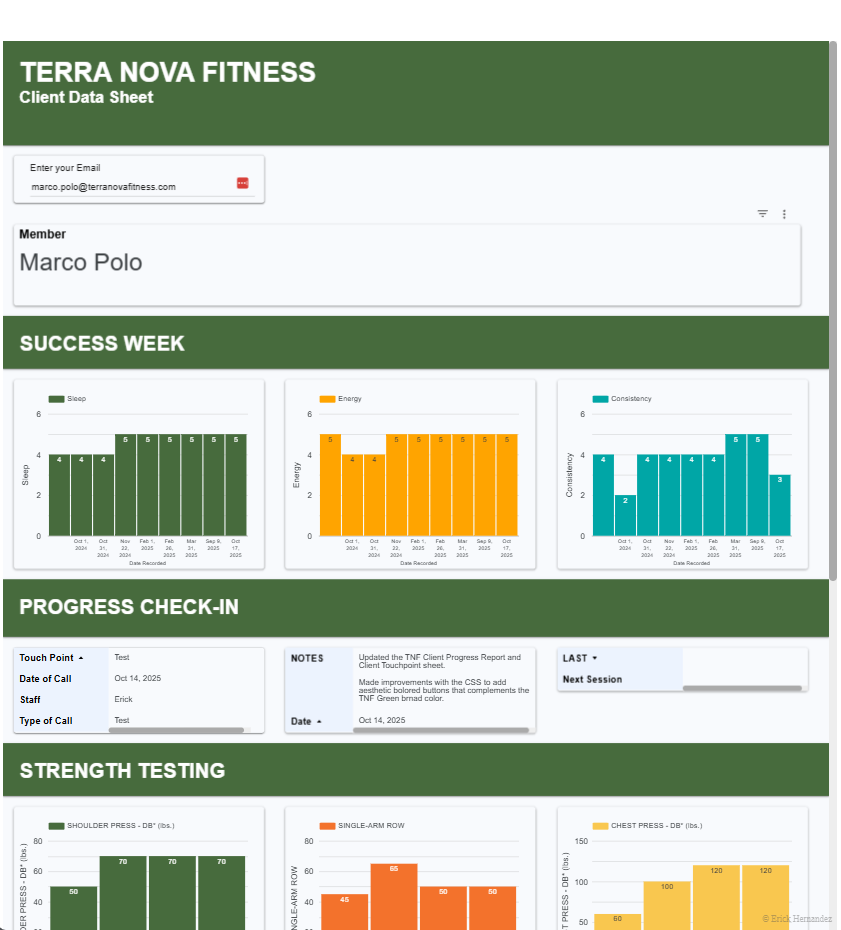
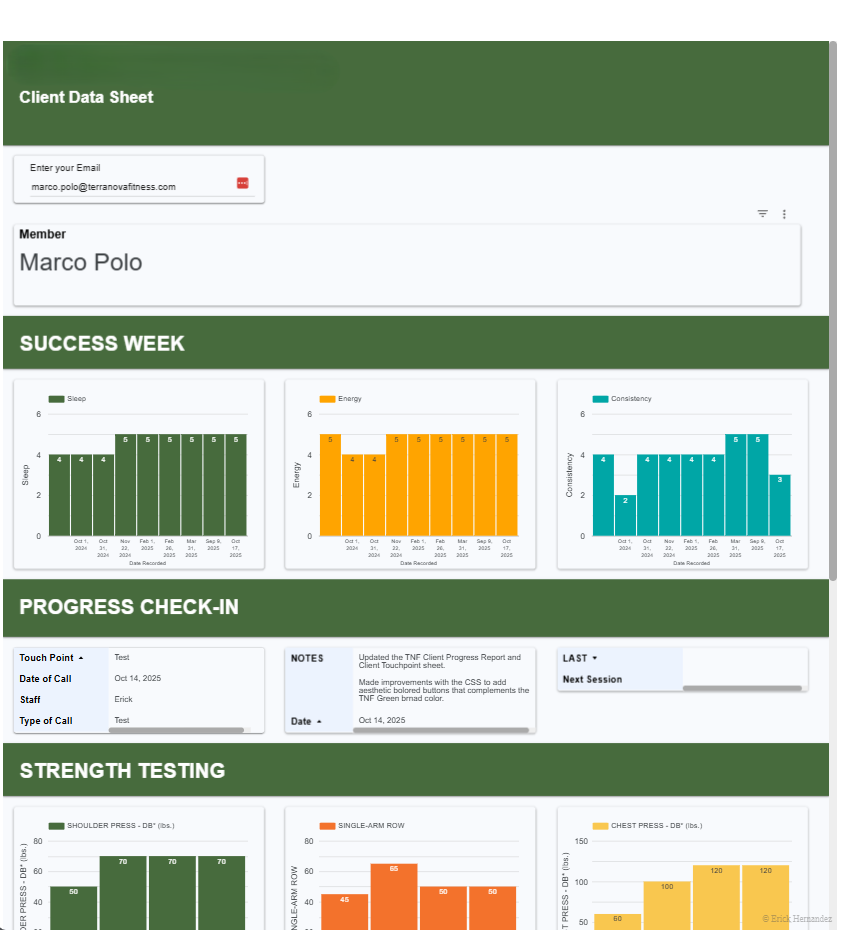
Redacted images of sensitive information

Changed region(s): [[0.0309, 0.0624, 0.371, 0.0935]]

diff --git a/style.css b/style.css
@@ -502,3 +502,10 @@ footer p.photo-credit {
     transform: translateY(-4px);
     box-shadow: 0 6px 18px rgba(0,0,0,0.15);
 }
+
+.skill-card::after {
+    content: "↗";
+    float: right;
+    opacity: 0.4;
+}
+ 
